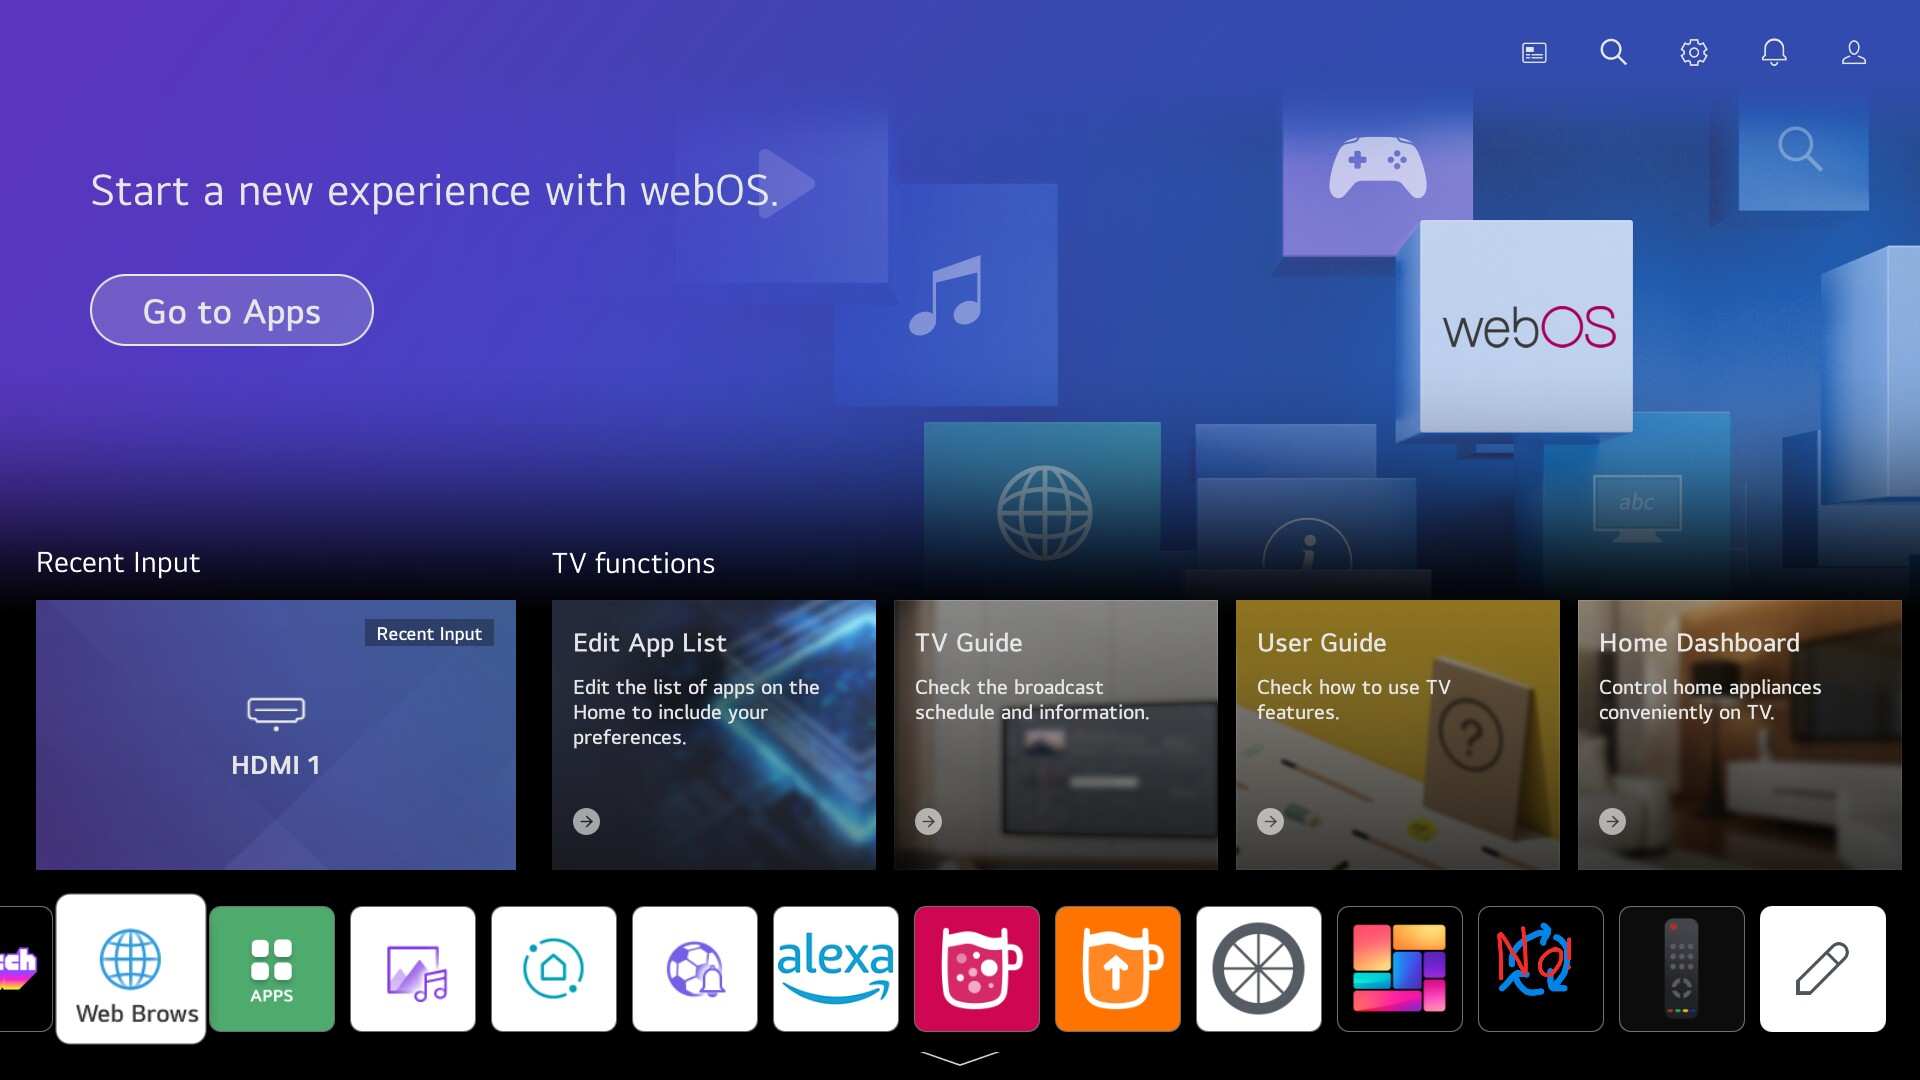
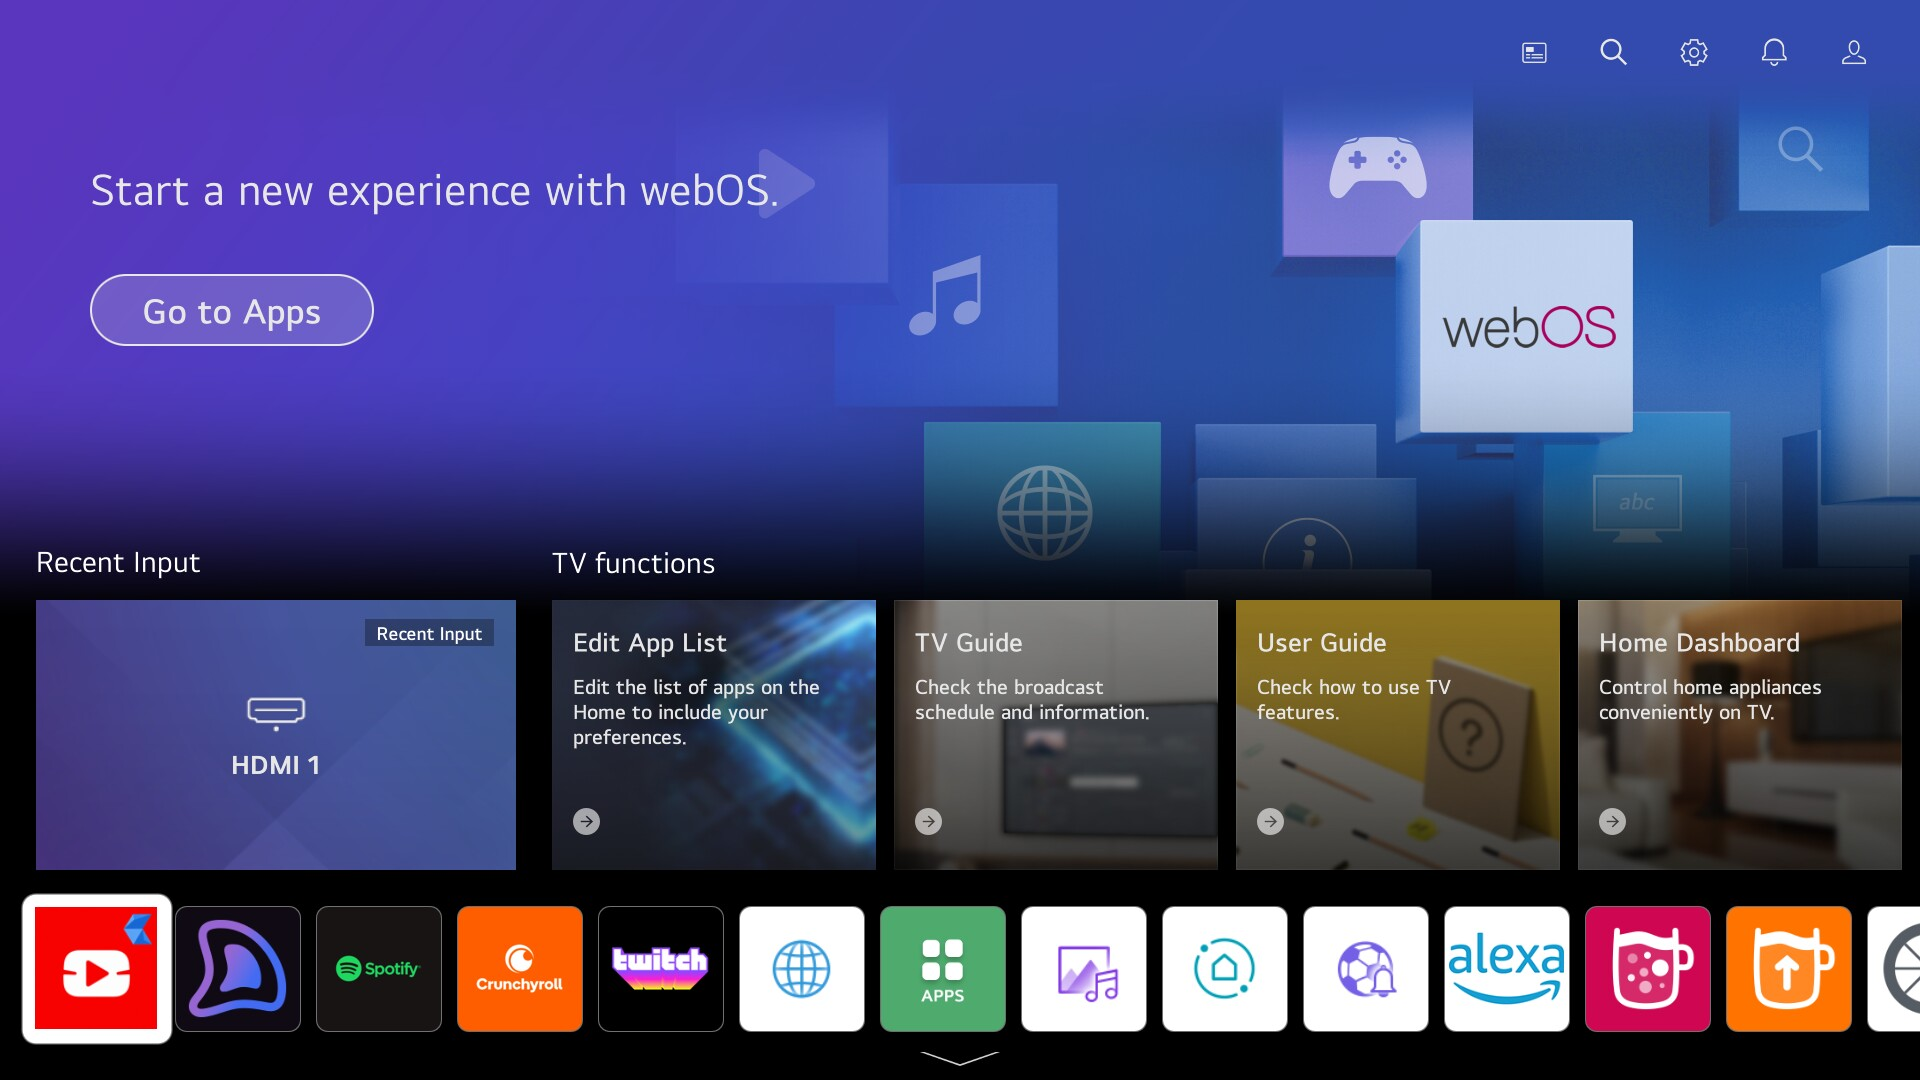
docs(tv): refresh launcher screenshots and comparison

Changed region(s): [[0.0, 0.825, 1.0, 0.9778]]

diff --git a/tv/README.md b/tv/README.md
@@ -5,16 +5,17 @@ Working branch: `tv`. Device: LG 55NANO806PA, webOS 6.5.3 / firmware 03.53.45.
 - [Findings, changes and verification boundaries](FINDINGS.md)
 - [Exact rollback commands](ROLLBACK.md)
 - [Primary-source research](RESEARCH.md)
-- [Before LG Home](screenshots/before.jpg)
-- [After Pear, captured after the final reboot](screenshots/after.jpg)
-- [Pear app drawer](screenshots/after-apps.jpg)
 - [OpenHome launcher design](DESIGN.md)
-- [OpenHome TV Home, synthetic public data](screenshots/openhome.jpg)
+- [Cinema picture settings](CINEMA.md)
+
+## Screenshots
+
+| Before: LG Home | After: OpenHome TV |
+| --- | --- |
+| ![LG Home before replacement](screenshots/before.jpg) | ![OpenHome launcher with large app icons and room controls](screenshots/after.jpg) |
+
+- [OpenHome app drawer](screenshots/openhome-apps.jpg)
 - [Circular agent speaking concept](screenshots/ember-speaking.jpg)
-- [Earlier design, before removing labels](screenshots/before-wordless.jpg)
-- [Before filling app cards](screenshots/before-card-fill.jpg)
-- [Before integrating the eye button](screenshots/before-eye-layout.jpg)
-- [YouTube recognised by Homebrew](screenshots/youtube-homebrew.jpg)
 
 ## Layout
 

diff --git a/tv/DESIGN.md b/tv/DESIGN.md
@@ -65,9 +65,9 @@ LG's original reorder interface. Pointer hover/click remains supported.
 
 ## Evidence
 
-`before-wordless.jpg` preserves the first OpenHome design. `openhome.jpg` and
-`openhome-apps.jpg` show the redesign; `ember-idle.jpg` and `ember-speaking.jpg`
-show the circular agent. These are captures of the actual TV, not browser mockups.
+`before.jpg` shows LG Home and `after.jpg` shows the current OpenHome launcher.
+`openhome-apps.jpg` shows the app drawer; `ember-speaking.jpg` shows the circular
+agent concept. These are captures of the actual TV, not browser mockups.
 Public weather/recovery values come from `bridge/preview.js`: 12°C, scores76/88/42.
 Real API data and live command evidence remain in ignored `private/`.
 

diff --git a/tv/FINDINGS.md b/tv/FINDINGS.md
@@ -133,8 +133,8 @@ ordinary Quick Start+ wake resumes the existing Pear process.
 
 IR power-off/on cycles through the existing OpenHome CLI suspended SSH, then
 returned the TV to `Active`, foreground LG Home running Pear, same Home PID and
-three mounts. `screenshots/after.jpg` is a real capture of the final running
-Pear Home, refreshed after the final reboot; private captures also record wake.
+three mounts. Private captures record Pear Home after the final reboot and wake.
+The current public before/after launcher screenshots are shown in [README](README.md#screenshots).
 
 Navigation/drawer, YouTube app opening to its account picker, HDMI 1 selection,
 Quick Settings and returning Home were checked on the real display. No account
